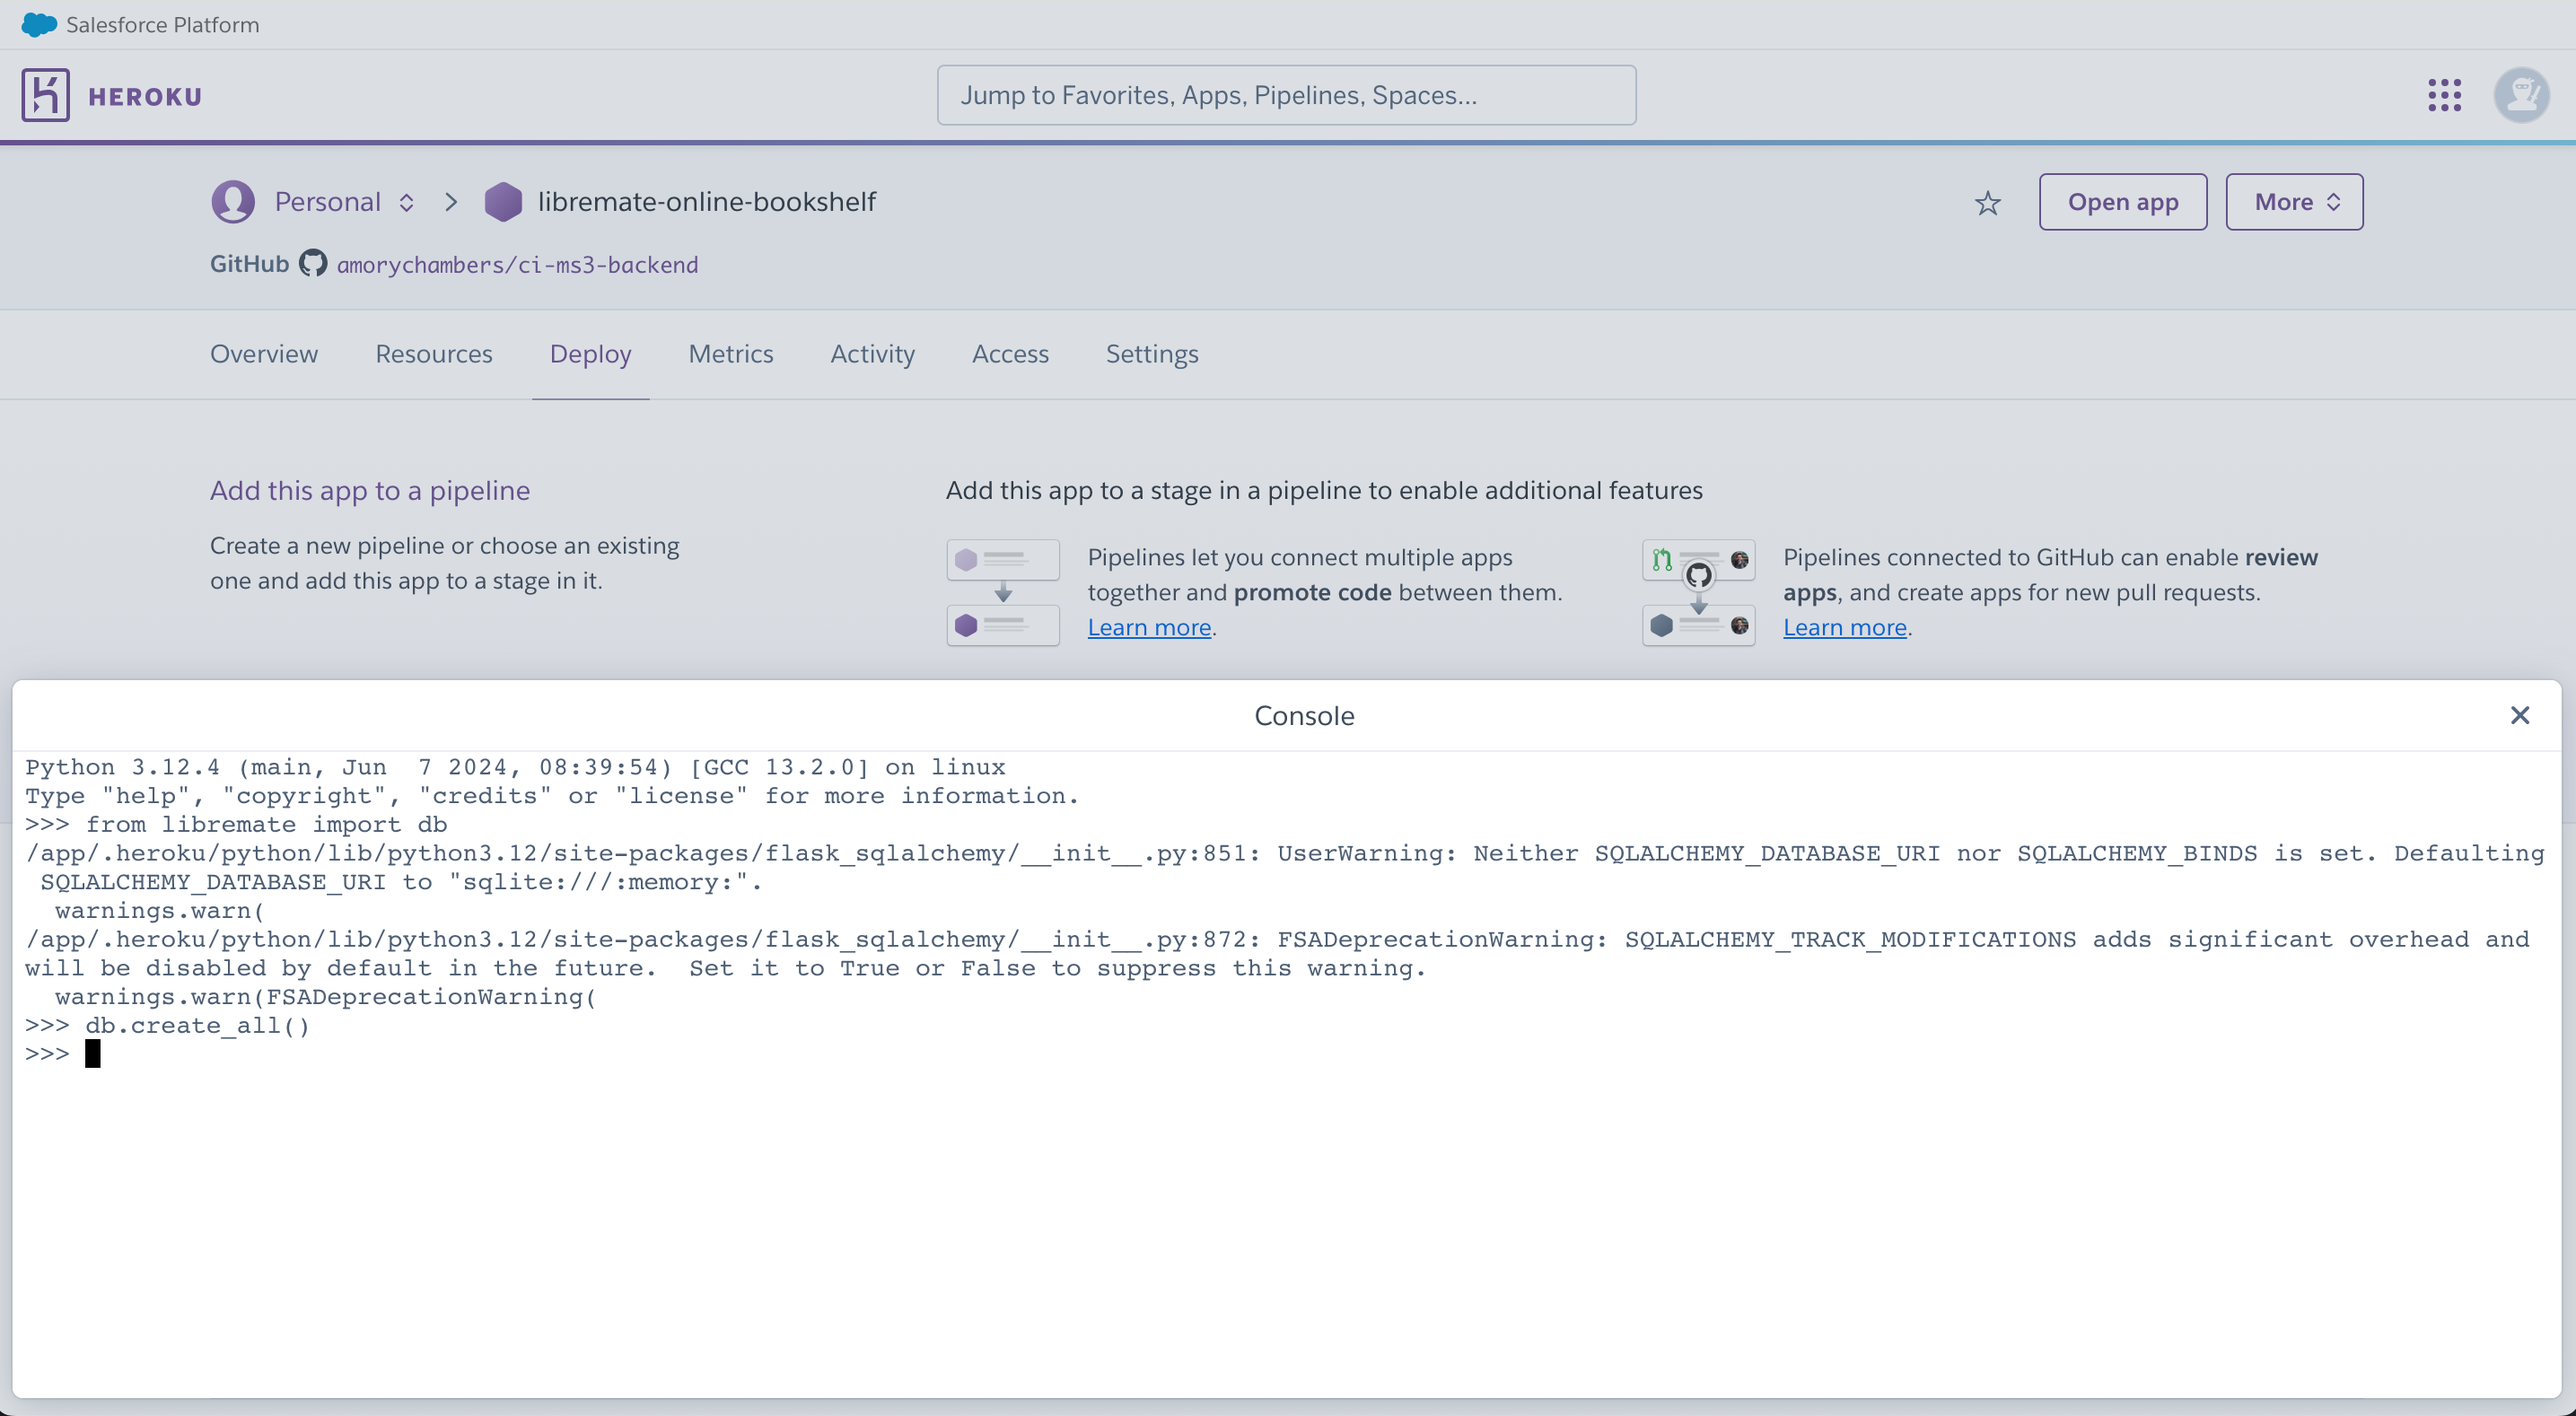
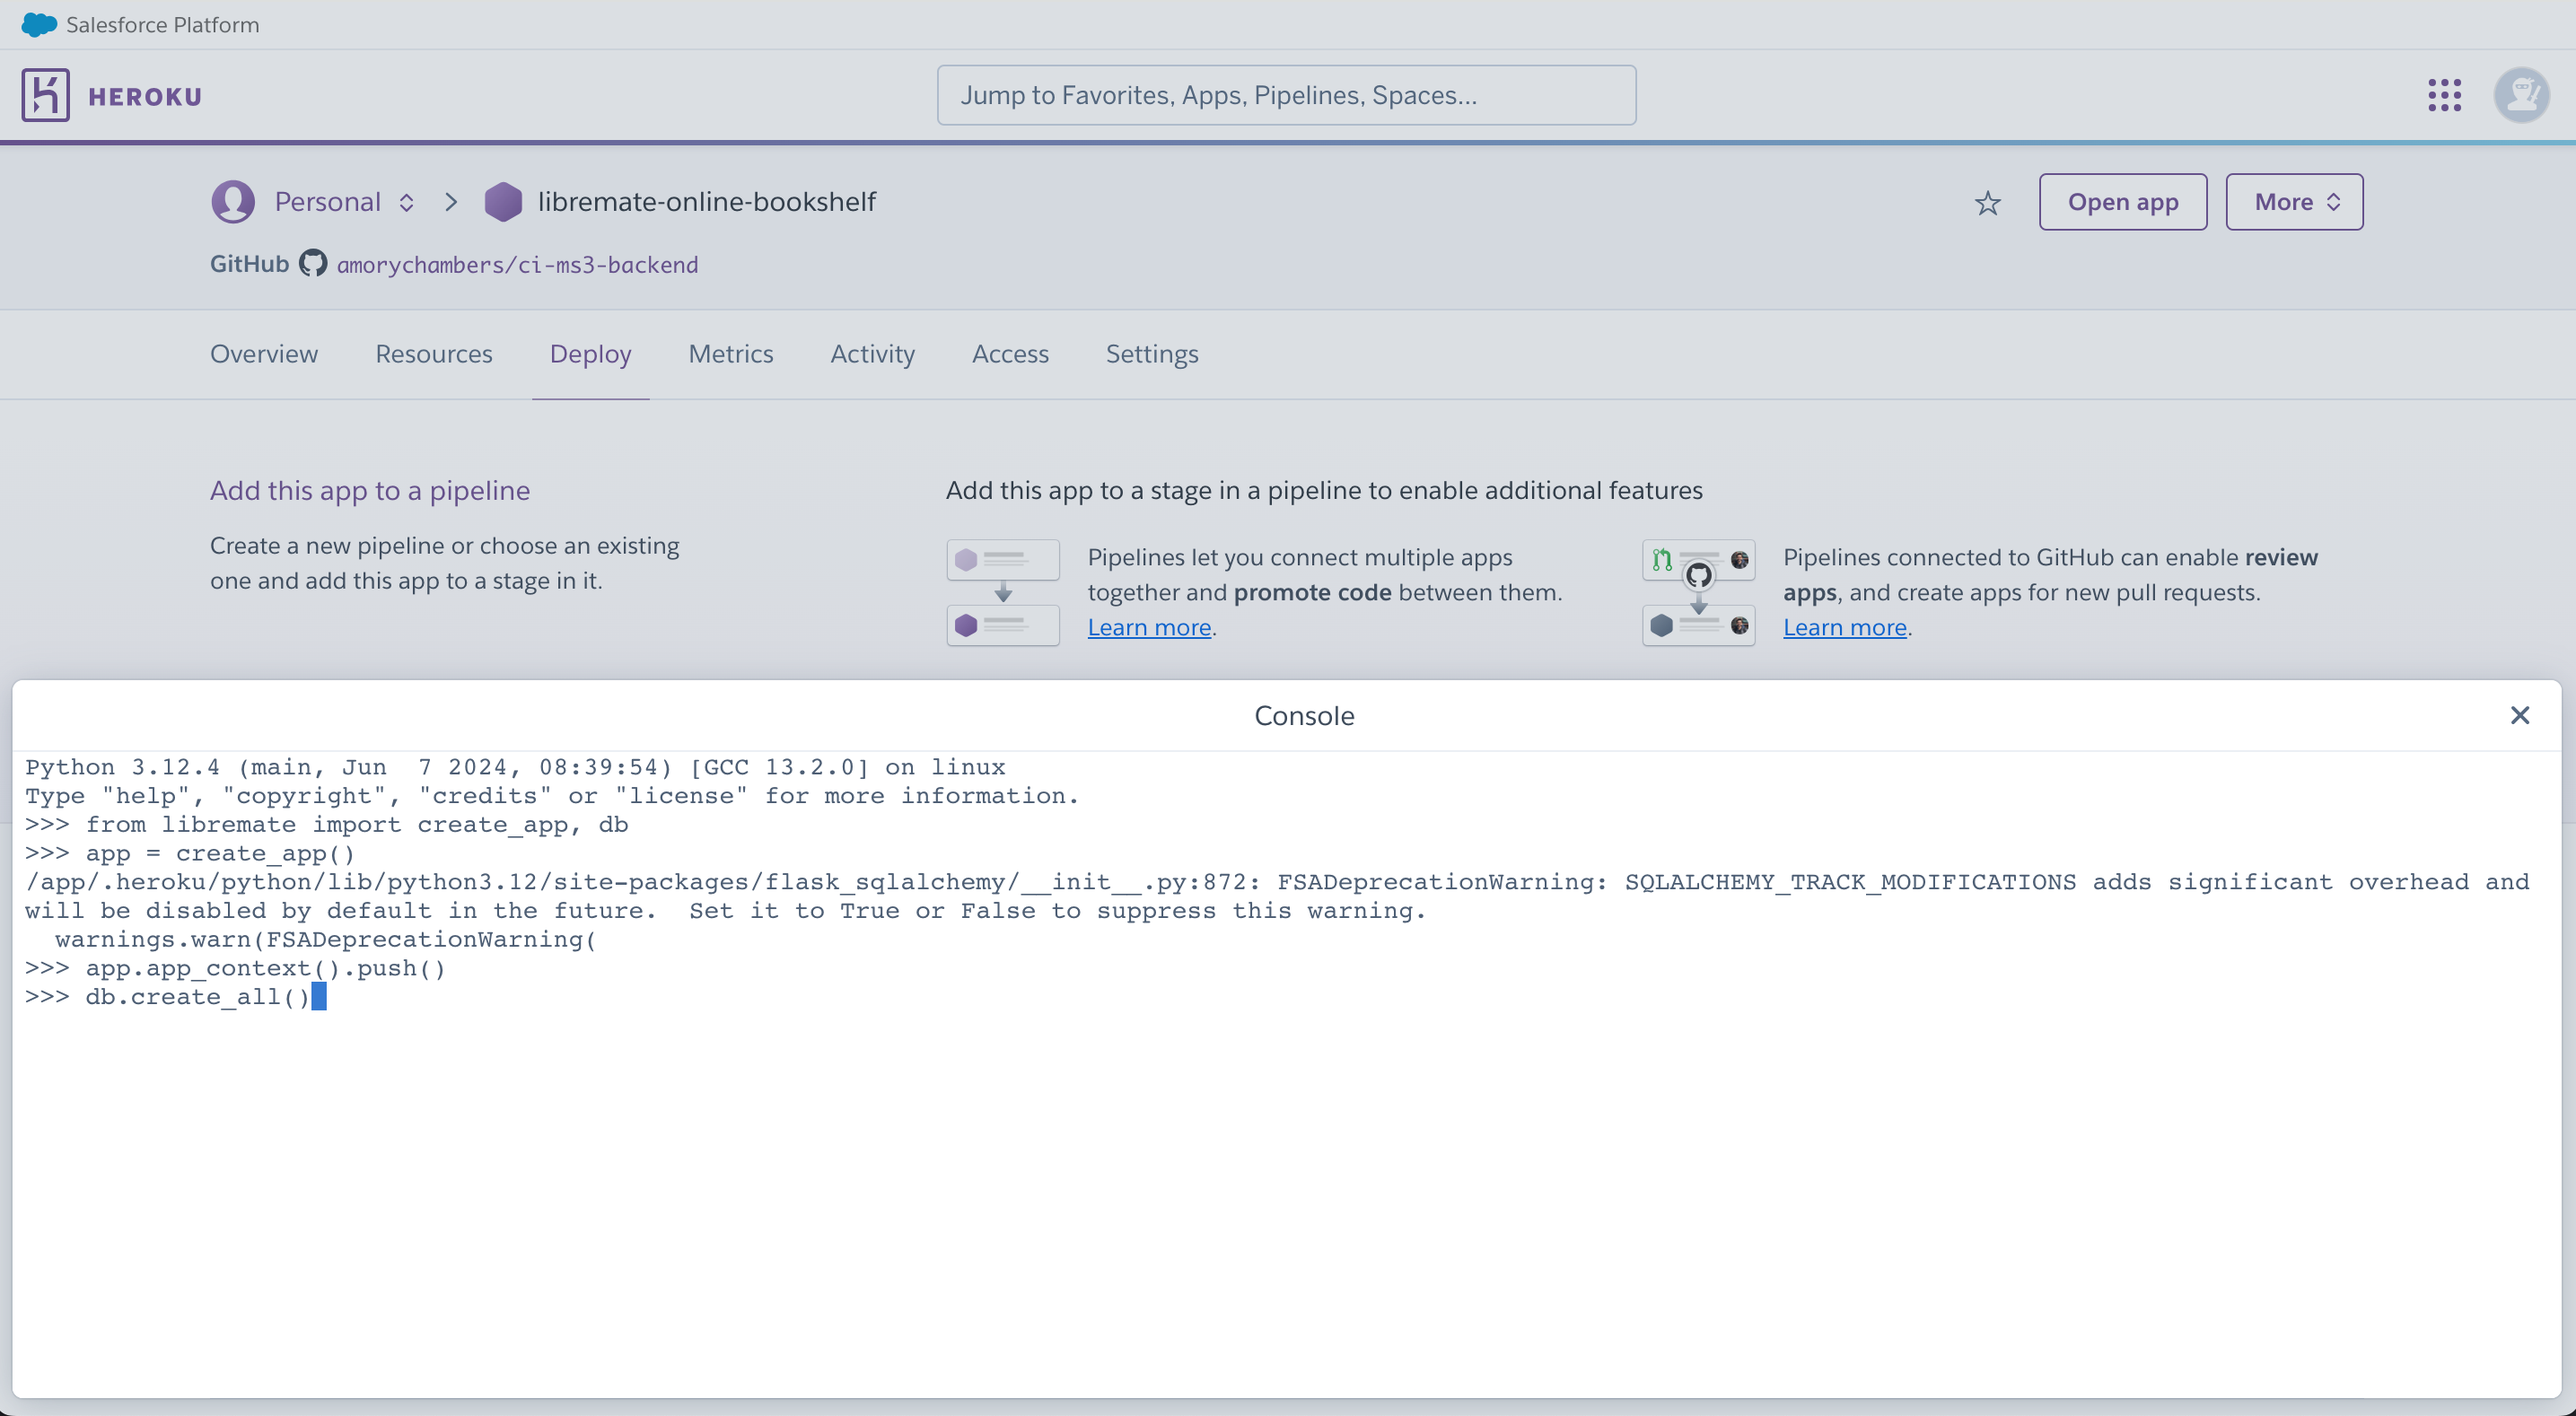
docs: add local deployment

Changed region(s): [[0.0, 0.5589, 0.8993, 0.7452], [0.9303, 0.59, 0.9923, 0.6831]]

diff --git a/README.md b/README.md
@@ -631,7 +631,7 @@ All tests passing.
 
 ## Deployment
 
-To deploy on Heroku:
+### Deploy on Heroku:
 
 1. Log into Heroku and click on 'Create New App'
 ![Log in](docs/deployment/deploy-1.png)
@@ -648,7 +648,7 @@ To deploy on Heroku:
 5. Add standard config vars for IP, PORT, DEBUG, and your own SECRET_KEY variable
 ![Add config vars](docs/deployment/deploy-5.png)
 
-6. Fork the repository in Github 
+6. Fork or clone the repository in Github 
 ![Fork repository](docs/deployment/deploy-6.png)
 
 7. Navigate to the Deploy tab of your Heroku app and select the Connect to Github option
@@ -660,13 +660,13 @@ To deploy on Heroku:
 9. Ensure that the main branch is selected, and then either select Deploy Branch for manual deployment or Enable Automatic Deploys to re-deploy site with any push to the main branch
 ![Select deploy](docs/deployment/deploy-9.png)
 
-10. Once the app has finished building, navigate to the More option and select Run Console
+10. Once the app has finished building, navigate to the More dropdown and select Run Console
 ![Run console](docs/deployment/deploy-10.png)
 
 11. Type python3 into the console and click Run to open a python3 shell
 ![python3](docs/deployment/deploy-11.png)
 
-12. To properly set up the database, we will initialise an instance of the app and with app context, create the appropriate tables in the database. Enter the following four commands separately into the terminal
+12. To properly set up the database we will initialise an instance of the app and with app context, create the appropriate tables in the database. You will only need to do this once, unless you make any changes to the database tables in models.py, in which case you will have to repeat this process as soon as your amendments have been pushed to git and deployed in a new build. Enter the following four commands separately into the terminal
 ```
 from libremate import create_app, db
 ```
@@ -694,6 +694,69 @@ quit()
 13. The app is now fully deployed and can be opened and used from Heroku, or by accessing it via the URL!
 ![Open app](docs/deployment/deploy-13.png)
 
-To deploy locally:
+
+### Deploy Locally
+
+1. Create or log in to your Github account. Within this repository, click the Code button; you can either download the repo or use one of the provided URL methods with the git clone command in your terminal to clone into the repo
+![Clone repo](docs/deployment/local-1.png)
+
+2. In your new repo, use the pip3 tool to install all the necessary Python packages from the requirements.txt file. If you do not have pip3 installed, install this tool first. Open a new terminal and navigate to the root folder of your new repo. Here, the command to install all the necessary packages using pip3 is as follows:
+
+```
+pip3 install -r requirements.txt
+```
+
+![Install requirements](docs/deployment/local-2.png)
+
+3. Create a new file called env.py in the root folder of your directory. Within this file, paste the following code, and enter your own values where necessary. I have left the standard values for some of the variables, but the SECRET_KEY and DB_URL values must be entered. The DB_URL variable should point to your postgres database, either locally or hosted online.
+
+```
+import os
+
+os.environ.setdefault("IP", "0.0.0.0")
+os.environ.setdefault("PORT", "5000")
+os.environ.setdefault("SECRET_KEY", "your_secret_key")
+os.environ.setdefault("DEBUG", "True")
+os.environ.setdefault("DEVELOPMENT", "True")
+os.environ.setdefault("DB_URL", "your_postgres_database_url")
+```
+
+4. Open a new python shell by typing python3 into the terminal 
+
+![Python shell](docs/deployment/local-4.png)
+
+5. To properly set up the database we will initialise an instance of the app and with app context, create the appropriate tables in the database. You will only need to do this once, unless you make any changes to the database tables in models.py, in which case you will have to repeat this process as soon as your amendments have been pushed to git and deployed in a new build. Enter the following four commands separately into the terminal
+```
+from libremate import create_app, db
+```
+
+```
+app = create_app()
+```
+
+```
+app.app_context().push()
+```
+
+```
+db.create_all()
+```
+
+You can now exit the shell by typing 
+
+```
+quit()
+```
+
+![Create database](docs/deployment/local-5.png)
+
+6. After exiting the python shell, you can now run the application by entering into the terminal:
+
+```
+python3 run.py
+```
+
+![Run application](docs/deployment/local-6.png)
+![View application](docs/deployment/local-6(b).png)
 
 ## Acknowledgements
